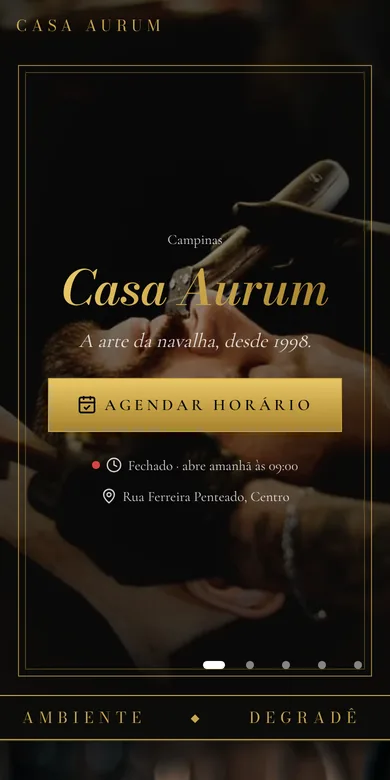
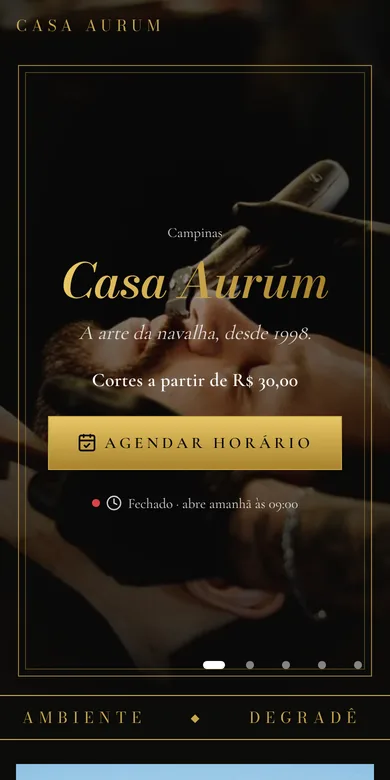
Correções da crítica de design do site da barbearia
- Texto dos cartões do agendar ilegível nos estilos claros (preto sobre a foto): agora sempre branco
- Barra "Agendar" do celular só aparece depois do botão da abertura (eram dois iguais na primeira tela)
- "Cortes a partir de R$ X" na abertura: preço volta a aparecer sem trazer o cardápio de volta
- Mosaico logo depois da abertura, com fotos de corte (não repete a capa); a terceira frase vira o
  título da chamada final (duas faixas de foto seguidas viravam uma só)
- Luxo Técnico no celular: nome e Agendar antes da foto; endereço sai da abertura no celular;
  fundo das frases varia por estilo; equipe de 3 em 3 colunas no celular; prints refeitos

Claude-Session: https://claude.ai/code/session_01MN9zoEGv1FFz94Fua4B64o

Changed region(s): [[0.1231, 0.2769, 0.8923, 0.6769], [0.0308, 0.9231, 0.9846, 1.0]]

diff --git a/apps/site/app/(barbearias)/b/[slug]/page.tsx b/apps/site/app/(barbearias)/b/[slug]/page.tsx
@@ -1,13 +1,13 @@
 import Link from "next/link";
 import { notFound } from "next/navigation";
 import { AtSign, CalendarCheck, Clock, MapPin, MessageCircle, Navigation, Phone, Users } from "lucide-react";
-import { agoraNoFuso, CATEGORIAS_FOTO, diaDaSemana, nomeDia } from "@aprenda/agenda";
+import { agoraNoFuso, CATEGORIAS_FOTO, diaDaSemana, nomeDia, TEMAS } from "@aprenda/agenda";
 import { AntesDepois } from "@/componentes/barbearia/AntesDepois";
 import { CapaSlides } from "@/componentes/barbearia/CapaSlides";
 import { Frase } from "@/componentes/barbearia/Frase";
 import { frasesDoTema } from "@/lib/frases";
 import { obterAgenda, reais } from "@/lib/agenda";
-import { dadosEstruturados, linkMapa, mapaEmbutido, nivelEfeitos, situacaoAgora, urlAbsoluta, urlFoto } from "@/lib/barbearias";
+import { dadosEstruturados, ehCorte, linkMapa, mapaEmbutido, nivelEfeitos, situacaoAgora, urlAbsoluta, urlFoto } from "@/lib/barbearias";
 
 export const dynamic = "force-dynamic";
 
@@ -63,16 +63,21 @@ export default async function SiteBarbearia({ params }: { params: Promise<{ slug
   const whats = `https://wa.me/${b.telefone}?text=${encodeURIComponent(`Olá, ${b.nome}! Vim pelo site.`)}`;
   const telefoneBonito = b.telefone.replace(/^55(\d{2})(\d{4,5})(\d{4})$/, "($1) $2-$3");
   const categoriasUsadas = CATEGORIAS_FOTO.filter((c) => c.id !== "equipe" && fotos.some((f) => f.categoria === c.id));
-  // Mosaico: a capa de novo (é a foto mais bonita do site) e dois cortes.
-  const mosaico = [
-    ...(capa ? [capa] : []),
-    ...trabalhos.filter((f) => ["degrade", "corte", "navalhado", "barba"].includes(f.categoria)).slice(-2),
-  ];
+  // Mosaico logo abaixo da abertura: três cortes (a capa acabou de aparecer lá em cima, não repete).
+  // Com menos de 3 fotos de corte, completa com a capa.
+  // Degradê primeiro: é a foto que mostra o corte pronto (as de "corte" costumam ser a tesoura em ação).
+  const ordemCorte = ["degrade", "navalhado", "corte", "barba"];
+  const fotosDeCorte = trabalhos.filter((f) => ordemCorte.includes(f.categoria))
+    .sort((a, b2) => ordemCorte.indexOf(a.categoria) - ordemCorte.indexOf(b2.categoria));
+  const mosaico = fotosDeCorte.length >= 3 ? fotosDeCorte.slice(0, 3) : [...(capa ? [capa] : []), ...fotosDeCorte.slice(-2)];
   // Fotos do ambiente pra "Conheça a casa" e pro fundo da chamada final, sem repetir quando dá.
   const ambientes = trabalhos.filter((f) => f.categoria === "ambiente");
   const fotoCasa = ambientes.at(-1) ?? capa;
   const fotoChamada = ambientes.length > 1 ? ambientes[0] : capa;
   const agendarHref = `${base}/agendar`;
+  // "Cortes a partir de R$ X": preço é a primeira dúvida de quem chega (e a página não tem mais cardápio).
+  const precosCorte = servicos.filter((s) => ehCorte(s.nome) && s.precoCentavos > 0).map((s) => s.precoCentavos);
+  const aPartir = b.mostrarPrecos && precosCorte.length > 0 ? Math.min(...precosCorte) : undefined;
   const frases = frasesDoTema(tema);
   // Fundo das frases: fotos que lembram barbearia (ambiente, depois ferramentas, depois a capa).
   // Começa pelas que ainda não apareceram grandes; com poucas, repete.
@@ -82,7 +87,8 @@ export default async function SiteBarbearia({ params }: { params: Promise<{ slug
     ...ambientes,
     ...(capa ? [capa] : []),
   ];
-  const fotoFrase = (i: number) => fundosFrase.length ? fundosFrase[i % fundosFrase.length] : undefined;
+  const inicioFrase = Math.max(0, TEMAS.findIndex((t) => t.id === tema));
+  const fotoFrase = (i: number) => fundosFrase.length ? fundosFrase[(i + inicioFrase) % fundosFrase.length] : undefined;
 
   return (
     <>
@@ -119,6 +125,7 @@ export default async function SiteBarbearia({ params }: { params: Promise<{ slug
             </h1>
           ) : <h1>{b.nome}</h1>}
           {b.bio && <p className="b-bio">{b.bio}</p>}
+          {aPartir !== undefined && agenda && <p className="b-a-partir">Cortes a partir de {reais(aPartir)}</p>}
           {fila && (
             <p className="b-fila">
               <Users size={18} aria-hidden />
@@ -150,7 +157,6 @@ export default async function SiteBarbearia({ params }: { params: Promise<{ slug
 
       {b.oferta && <p className="b-oferta">{b.oferta}</p>}
 
-      <Frase texto={frases[0]} foto={fotoFrase(0)} />
 
       {/* A página inicial só vende a ideia e leva pro "Agendar"; a escolha do corte fica no agendar.
           Quem atende só por ordem de chegada não tem agendar: aí o cardápio aparece aqui. */}
@@ -186,7 +192,7 @@ export default async function SiteBarbearia({ params }: { params: Promise<{ slug
         </section>
       )}
 
-      <Frase texto={frases[1]} foto={fotoFrase(1)} />
+      <Frase texto={frases[0]} foto={fotoFrase(0)} />
 
       {tema === "potencia" && pares.length > 0 && (
         <section className="b-secao" id="antes-depois">
@@ -217,7 +223,7 @@ export default async function SiteBarbearia({ params }: { params: Promise<{ slug
         </section>
       )}
 
-      <Frase texto={frases[2]} foto={fotoFrase(2)} />
+      <Frase texto={frases[1]} foto={fotoFrase(1)} />
 
       <section className="b-secao b-casa" aria-labelledby="casa-titulo">
         {fotoCasa && (
@@ -249,8 +255,8 @@ export default async function SiteBarbearia({ params }: { params: Promise<{ slug
             <img src={urlFoto(fotoChamada.arquivo)} alt="" loading="lazy" width={fotoChamada.largura} height={fotoChamada.altura} />
           )}
           <div className="b-chamada-texto" data-revelar>
-            <h2 id="chamada-titulo">Seu próximo corte já tem horário.</h2>
-            <p>Garanta o seu em menos de um minuto, sem criar conta.</p>
+            <h2 id="chamada-titulo">{frases[2]}</h2>
+            <p>Seu próximo corte já tem horário. Garanta o seu em menos de um minuto, sem criar conta.</p>
             <Link href={agendarHref} className="b-botao b-botao-grande"><CalendarCheck size={20} aria-hidden /> Agendar horário</Link>
           </div>
         </section>

diff --git a/apps/site/app/(barbearias)/temas.css b/apps/site/app/(barbearias)/temas.css
@@ -847,7 +847,7 @@ html:has(.site-b:is([data-tema="silencioso"], [data-tema="atemporal"])) body { b
 .b-chamada > img { position: absolute; inset: 0; width: 100%; height: 100%; object-fit: cover; z-index: -2; }
 .b-chamada::after { content: ""; position: absolute; inset: 0; z-index: -1; background: linear-gradient(180deg, rgb(0 0 0 / 0.55), rgb(0 0 0 / 0.75)); }
 .b-chamada-texto { display: grid; justify-items: center; gap: 14px; max-width: 680px; padding: 80px 16px; }
-.site-b .b-chamada h2 { margin: 0; font-size: clamp(2rem, 5.5vw, 3.4rem); line-height: 1.05; color: #fff; }
+.site-b .b-chamada h2 { margin: 0; max-width: 20ch; font-size: clamp(1.9rem, 5vw, 3.2rem); line-height: 1.08; color: #fff; text-wrap: balance; }
 .site-b .b-chamada h2::after { display: none; }
 .b-chamada p { margin: 0 0 8px; color: rgb(255 255 255 / 0.85); font-size: 1.1rem; }
 
@@ -871,6 +871,8 @@ html:has(.site-b:is([data-tema="silencioso"], [data-tema="atemporal"])) body { b
 .b-vitrine-grade { list-style: none; margin: 0; padding: 0; border: 0; display: grid; grid-template-columns: repeat(2, minmax(0, 1fr)); gap: 10px; }
 @media (min-width: 760px) { .b-vitrine-grade { grid-template-columns: repeat(3, minmax(0, 1fr)); gap: 16px; } }
 @media (min-width: 1040px) { .b-vitrine-grade { grid-template-columns: repeat(4, minmax(0, 1fr)); } }
+/* `.site-b a` pinta link com a cor do tema (escura nos temas claros): cartão sobre foto é sempre branco. */
+.site-b .b-vitrine-item { color: #fff; }
 .b-vitrine-item {
   position: relative; display: block; height: 100%; overflow: hidden; text-decoration: none; cursor: pointer;
   border-radius: var(--raio); background: var(--fundo-2); color: #fff; isolation: isolate;
@@ -1020,3 +1022,25 @@ html:has(.site-b:is([data-tema="silencioso"], [data-tema="atemporal"])) body { b
 /* Equipe em grade (a página inicial não tem mais carrossel). */
 .b-equipe .b-pessoa img, .b-equipe .b-pessoa-inicial { height: auto; aspect-ratio: 4 / 5; }
 @media (max-width: 560px) { .b-equipe { grid-template-columns: repeat(2, minmax(0, 1fr)); gap: 12px; } }
+
+/* Luxo Técnico no celular: nome e "Agendar" primeiro, a foto embaixo (a foto sozinha ocupava a primeira tela). */
+@media (max-width: 899px) {
+  .site-b[data-tema="tecnico"] .b-heroi-texto { order: -1; padding-top: 24px; padding-bottom: 24px; }
+  .site-b[data-tema="tecnico"] .b-heroi-midia { aspect-ratio: 16 / 11; max-height: 46svh; border-radius: 28px 28px 0 0; }
+}
+
+/* Barra "Agendar" do celular: na página inicial só aparece depois que o botão da abertura sai da
+   tela (antes eram dois "Agendar" iguais empilhados). Sem JavaScript, fica sempre visível. */
+@media (max-width: 760px) {
+  .site-b.b-barra-espera .b-barra-celular { translate: 0 110%; transition: translate 0.25s ease; }
+  .site-b.b-barra-espera.b-barra-visivel .b-barra-celular { translate: 0 0; }
+  /* Endereço vai em "Onde estamos"; na abertura do celular ficava embaixo das bolinhas. */
+  .b-heroi .b-info-rapida li:not(.b-estado) { display: none; }
+}
+@media (prefers-reduced-motion: reduce) { .site-b.b-barra-espera .b-barra-celular { transition: none; } }
+
+/* Preço de partida na abertura. */
+.b-a-partir { margin: 0; font-weight: 600; letter-spacing: 0.01em; }
+
+/* Equipe de 3 no celular: 3 colunas (2 + 1 sozinho ficava torto). */
+@media (max-width: 560px) { .b-equipe:has(> :nth-child(3):last-child) { grid-template-columns: repeat(3, minmax(0, 1fr)); gap: 8px; } .b-equipe:has(> :nth-child(3):last-child) .b-pessoa h3 { font-size: 1rem; } }

diff --git a/apps/site/componentes/barbearia/Efeitos.tsx b/apps/site/componentes/barbearia/Efeitos.tsx
@@ -22,6 +22,9 @@ export function Efeitos({ tema }: { tema: string }) {
     // Navegação da galeria de uma foto por vez (Cerimônia). É controle, não enfeite: vale sempre.
     if (tema === "cerimonia") limpar.push(galeriaComSetas(raiz, semMovimento));
 
+    // Barra "Agendar" do celular só depois que o botão da abertura sai da tela (não é animação: vale sempre).
+    limpar.push(barraDepoisDaAbertura(raiz));
+
     if (!semMovimento) {
       // Todos os temas: fotos, cartões e frases aparecem quando entram na tela.
       limpar.push(revelarAoRolar(raiz));
@@ -36,6 +39,15 @@ export function Efeitos({ tema }: { tema: string }) {
   }, [tema, caminho]);
 
   return null;
+}
+
+function barraDepoisDaAbertura(raiz: HTMLElement): () => void {
+  const acoes = raiz.querySelector(".b-heroi .b-acoes");
+  if (!acoes) return () => {};
+  raiz.classList.add("b-barra-espera");
+  const vigia = new IntersectionObserver(([e]) => raiz.classList.toggle("b-barra-visivel", !e?.isIntersecting));
+  vigia.observe(acoes);
+  return () => { vigia.disconnect(); raiz.classList.remove("b-barra-espera", "b-barra-visivel"); };
 }
 
 /**

diff --git a/CLAUDE.md b/CLAUDE.md
@@ -25,7 +25,7 @@ login de aluno. Tudo em TypeScript, monorepo com npm workspaces.
 - Confirmação antiga (`/b/<slug>/confirmado`, links velhos): "Adicionar à minha agenda" — `.ics` com lembrete 1 h antes (`/b/<slug>/agenda.ics`, `packages/agenda/src/calendario.ts`) ou link do Google Agenda (principal no Android). Só dados públicos da URL.
 - Depois do atendimento (sem bot: tudo abre o WhatsApp DO BARBEIRO com texto de `apps/site/lib/pos-atendimento.ts`): no painel, card passado → "Marcar o próximo" (`/app/retorno/[id]`, data por `sugestaoDeRetorno`: ritmo do cliente ou `retornoDias`), "Pedir avaliação" (`linkAvaliacao` em `/app/config#depois`; nunca oferecer brinde por avaliação; placa com QR em `/app/avaliacao`) e "Faltou" (`marcarFalta`, só depois do horário). "Lembretes de amanhã" (`registrarContato`). `/app/numeros` (`numerosDoMes` + `divisaoDoMes` com `partePct` do profissional), `/app/clientes` (`clientesSumidos`, pausa de 14 dias após `registrarChamada`, mensagem com saída), `/app/planos` (plano mensal anotado pelo barbeiro, `salvarPlano`; selo no card). Serviço com `descricao` e `emDomicilio` (site pede endereço); cliente pode escolher foto de referência (`referenciaFoto`, só categorias de corte). Datas do ano no painel: `lib/datas-barbearia.ts`. Lista de espera ainda não existe (precisaria de formulário público com as travas).
 - Painel do barbeiro (`/app`, `app/layout.tsx` + `app/painel.css`): casca de aplicativo só pra conta liberada (em montagem ou fora da conta fica o topo simples) — menu lateral verde-escuro no computador e abas embaixo no celular (`componentes/barbearia/NavPainel.tsx`), botão "Ver meu site". `/app` abre com o resumo de hoje (próximo cliente, marcados, previsto, mês), cartão do site (copiar link, mandar no WhatsApp) e atalhos; `/app/conta` (Minha conta: plano e vencimento, dados, site, atalhos pro resto e Sair). Prints dos estilos em `public/barbeiros/` são tirados dos sites de exemplo (390×780, sem o aviso de exemplo).
-- Página inicial do site da barbearia (`/b/<slug>`, igual nos 6 temas, cada tema ajusta em `temas.css`) é um funil: só vende a ideia e leva pro "Agendar" (a escolha do serviço fica toda no agendar; nada de carrossel nem de horários na página inicial). Abertura em tela cheia com fotos que passam como vídeo (`CapaSlides`: esmaecer + zoom lento Ken Burns, com botão de pausar) e "Agendar horário" → frase → mosaico (capa de novo + 2 cortes, "Você sai daqui outro." + Agendar) → frase → antes/depois (Potência, se houver) → "Quem vai te atender" (equipe em grade) → frase → "Conheça a casa" (foto, apresentação, números) → chamada final com foto → "Horários e onde estamos" com mapa do Google Maps em iframe (`mapaEmbutido` em `lib/barbearias.ts`: sem chave nem custo, pino no endereço (só a cidade, sem endereço, só em prévia/demonstração; cliente sem endereço fica sem mapa); escuro nos temas escuros; `frame-src` liberado só pro Google no CSP do `next.config.ts`; citado na `/privacidade`). Só quem atende por ordem de chegada (sem agendar) vê a lista de serviços na página inicial. Menu do topo: Equipe, Onde estamos e Agendar. Exemplos ganham endereço ilustrativo (`ENDERECOS` em `lib/exemplos.ts`, rua do centro de Campinas sem número). Três frases grandes entre as seções (`lib/frases.ts`, três por tema, no tom de cada um; `componentes/barbearia/Frase.tsx`, todas sobre foto que lembra barbearia: ambiente, depois ferramentas, depois a capa, repetindo se faltar). Fotos, equipe e frases com `data-revelar` aparecem ao rolar (`revelarAoRolar` em `Efeitos.tsx`, todos os temas; só esconde com `.b-anima`, ligado pelo JS). Tudo parado com "reduzir movimento". Luxo Técnico mantém a abertura dividida (foto ao lado). `/b/<slug>/trabalhos` continua existindo (links antigos), sem link na página.
+- Página inicial do site da barbearia (`/b/<slug>`, igual nos 6 temas, cada tema ajusta em `temas.css`) é um funil: só vende a ideia e leva pro "Agendar" (a escolha do serviço fica toda no agendar; nada de carrossel nem de horários na página inicial). Abertura em tela cheia com fotos que passam como vídeo (`CapaSlides`: esmaecer + zoom lento Ken Burns, com botão de pausar) "Cortes a partir de R$ X" (menor preço de corte, se mostra preços) e "Agendar horário" → mosaico (3 fotos de corte, degradê primeiro, sem repetir a capa; "Você sai daqui outro." + Agendar) → frase → antes/depois (Potência, se houver) → "Quem vai te atender" (equipe em grade) → frase → "Conheça a casa" (foto, apresentação, números) → chamada final com foto (a terceira frase é o título dela) → "Horários e onde estamos" com mapa do Google Maps em iframe (`mapaEmbutido` em `lib/barbearias.ts`: sem chave nem custo, pino no endereço (só a cidade, sem endereço, só em prévia/demonstração; cliente sem endereço fica sem mapa); escuro nos temas escuros; `frame-src` liberado só pro Google no CSP do `next.config.ts`; citado na `/privacidade`). Só quem atende por ordem de chegada (sem agendar) vê a lista de serviços na página inicial. Menu do topo: Equipe, Onde estamos e Agendar. No celular, a barra fixa "Agendar" só aparece quando o botão da abertura sai da tela (`barraDepoisDaAbertura` em `Efeitos.tsx`). O texto dos cartões com foto é sempre branco (`.site-b .b-vitrine-item`), também nos temas claros. Exemplos ganham endereço ilustrativo (`ENDERECOS` em `lib/exemplos.ts`, rua do centro de Campinas sem número). Frases grandes entre as seções (`lib/frases.ts`, três por tema, no tom de cada um; `componentes/barbearia/Frase.tsx`, todas sobre foto que lembra barbearia: ambiente, depois ferramentas, depois a capa, repetindo se faltar). Fotos, equipe e frases com `data-revelar` aparecem ao rolar (`revelarAoRolar` em `Efeitos.tsx`, todos os temas; só esconde com `.b-anima`, ligado pelo JS). Tudo parado com "reduzir movimento". Luxo Técnico mantém a abertura dividida (foto ao lado; no celular, nome e Agendar vêm antes da foto). `/b/<slug>/trabalhos` continua existindo (links antigos), sem link na página.
 - Agendar (`/b/<slug>/agendar`): 3 passos (serviço → adicionais → dia e horário com "qualquer um" → nome e WhatsApp). Raciocínio linear: passo 1 é o único carrossel do site (`CarrosselB`, com setas no computador; `ehCorte` em `lib/barbearias.ts`): primeiro "Não vou cortar" (`servico=sem`: cartões de barba e cuidados que marcam com um toque; o primeiro marcado vira o serviço do horário e o resto, adicionais; dois serviços que não são adicional não vão juntos), depois os cortes com foto (`fotosDosServicos`). Corte escolhido → "Completa o visual?" (adicionais em cartões, `CartaoMarcar`) → horário → dados. A foto do corte tocado vai na URL (`foto`, só foto de trabalho da barbearia em `CATEGORIAS_REFERENCIA`) e vira a referência do horário sem perguntar de novo; a grade "Quer mostrar o corte?" só aparece em corte sem foto. Sites de exemplo e prévias usam o cardápio de barbearia de verdade (`lib/cardapio.ts`, `porCardapio`: low, mid, high e taper fade, social, americano, tesoura, crop francês, buzz cut, moicano, mullet, infantil, corte + barba; adicionais barba, cavanhaque, risco na navalha, pezinho, sobrancelha, hidratação, pigmentação e platinado; o botão "Atualizar os sites de exemplo" aplica nos que já existem). Adicionais: serviço com `adicional` (conta nova já vem com Barba e Sobrancelha; `migrarAdicionais` fez isso nas antigas), `adicionaisPara` não repete o que o nome do serviço já tem ("Corte + barba" não oferece barba), somam tempo e preço; o horário guarda o snapshot (`adicionais_ids/nomes/min/centavos`) e `servico` já vem como "Corte + Barba" nas consultas. URL: `extra` repetido + `ad=1`. Avisos no celular do barbeiro por Web Push (`lib/avisos.ts`, `public/painel-sw.js`, chaves VAPID no banco ou no `.env`); o aviso traz "Confirmar no WhatsApp", que abre o WhatsApp DO BARBEIRO com a mensagem pronta (quem envia é ele).
 - Site entregue ao cliente não leva nada da nossa venda: "Você é barbeiro? Tenha um site assim" e o aviso de exemplo só em demonstração/prévia (`demoAte`); o rodapé do cliente leva "Privacidade" pra `/b/<slug>/privacidade` (no visual da barbearia, sem a nossa marca; o agendar aponta pra ela).
 - Privacidade e termos: `/privacidade` e `/termos` (só o que o sistema faz de verdade; contato pelo `ADMIN_WHATSAPP` via `lib/contato.ts`; termos leem o preço do `planoDoAmbiente`). Link no rodapé, no cadastro do barbeiro, no agendamento e no formulário da comunidade. Se passar a guardar dado pessoal novo, atualize a página e a data.
